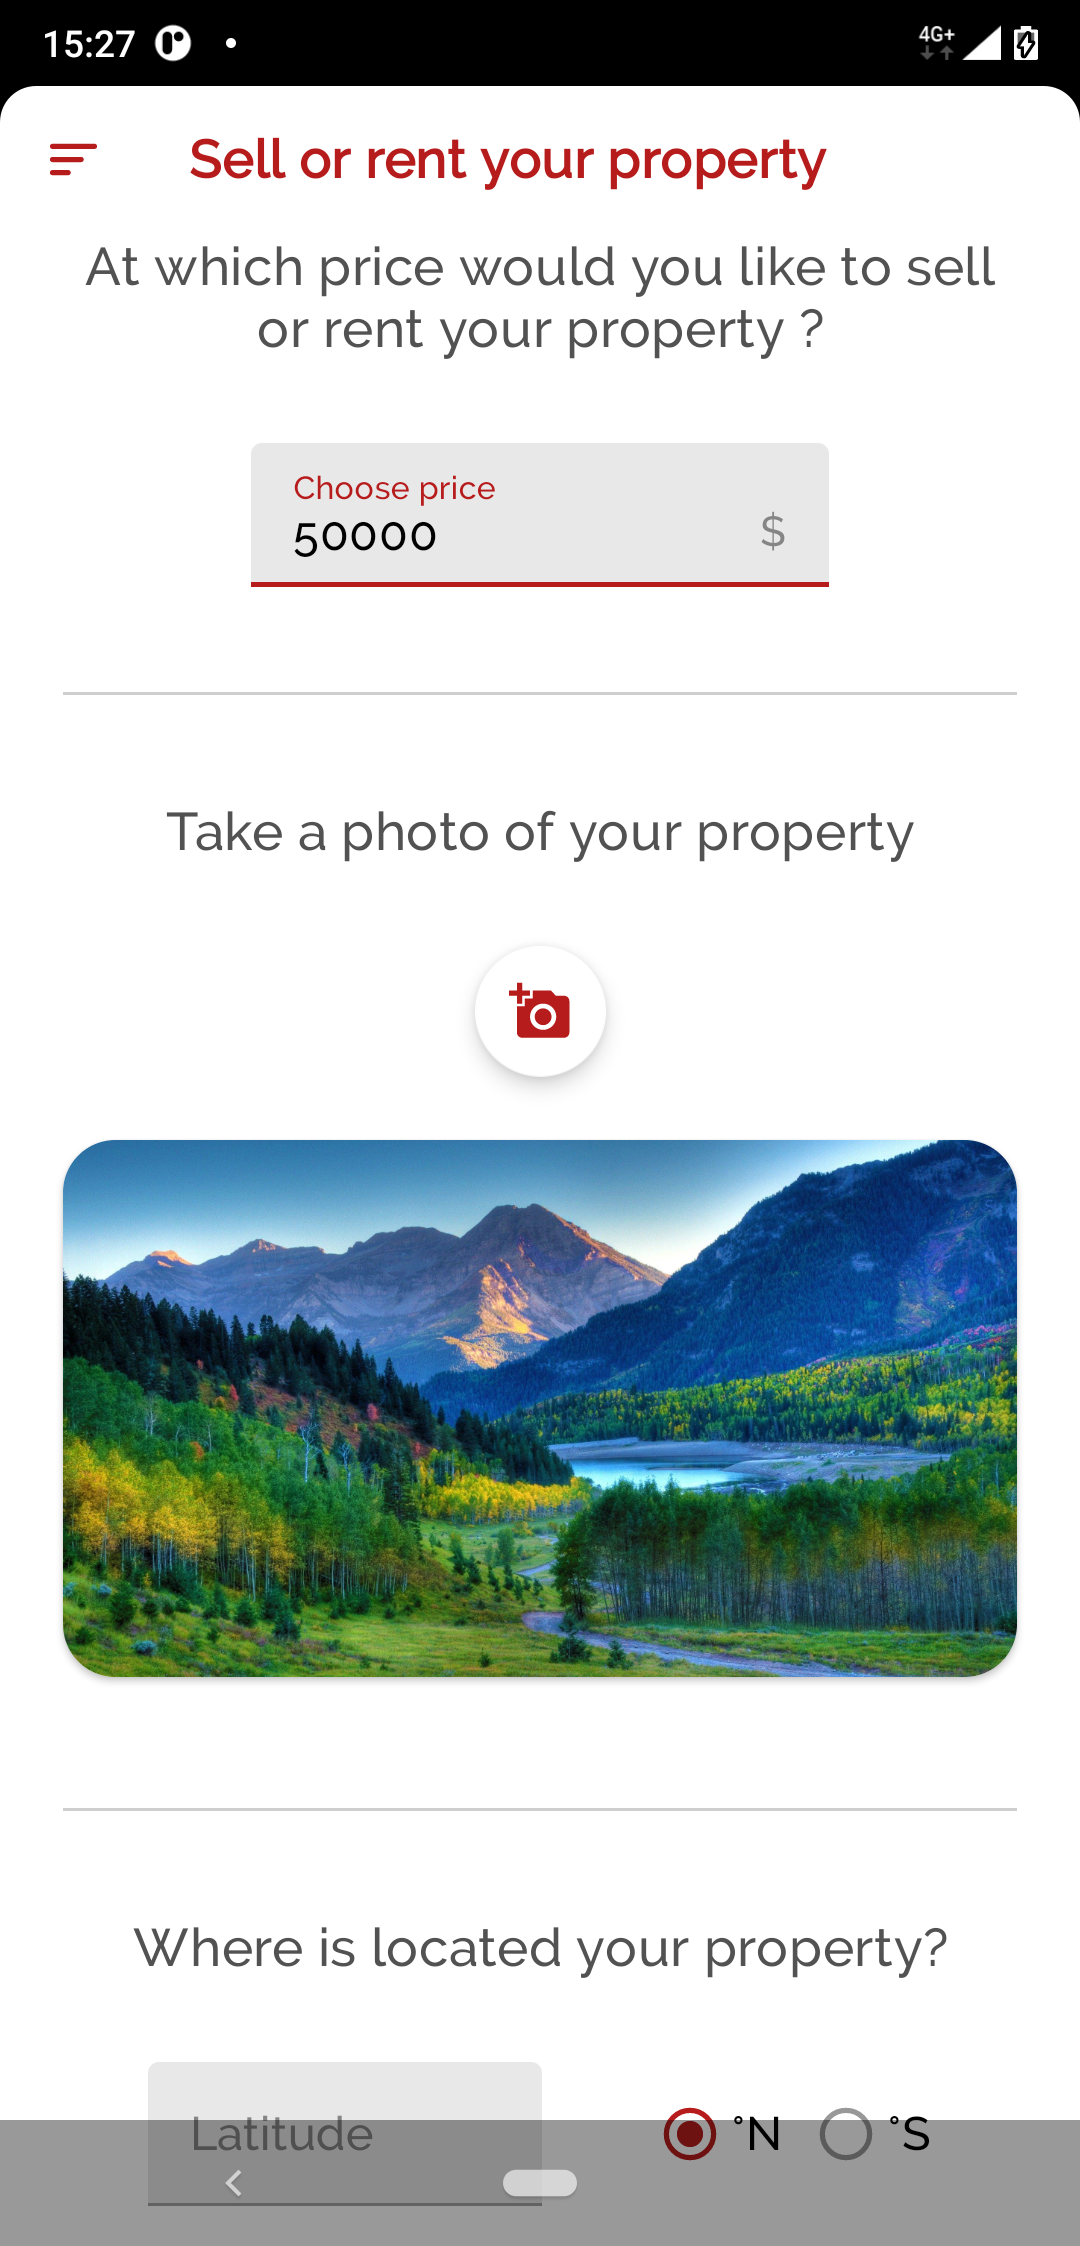
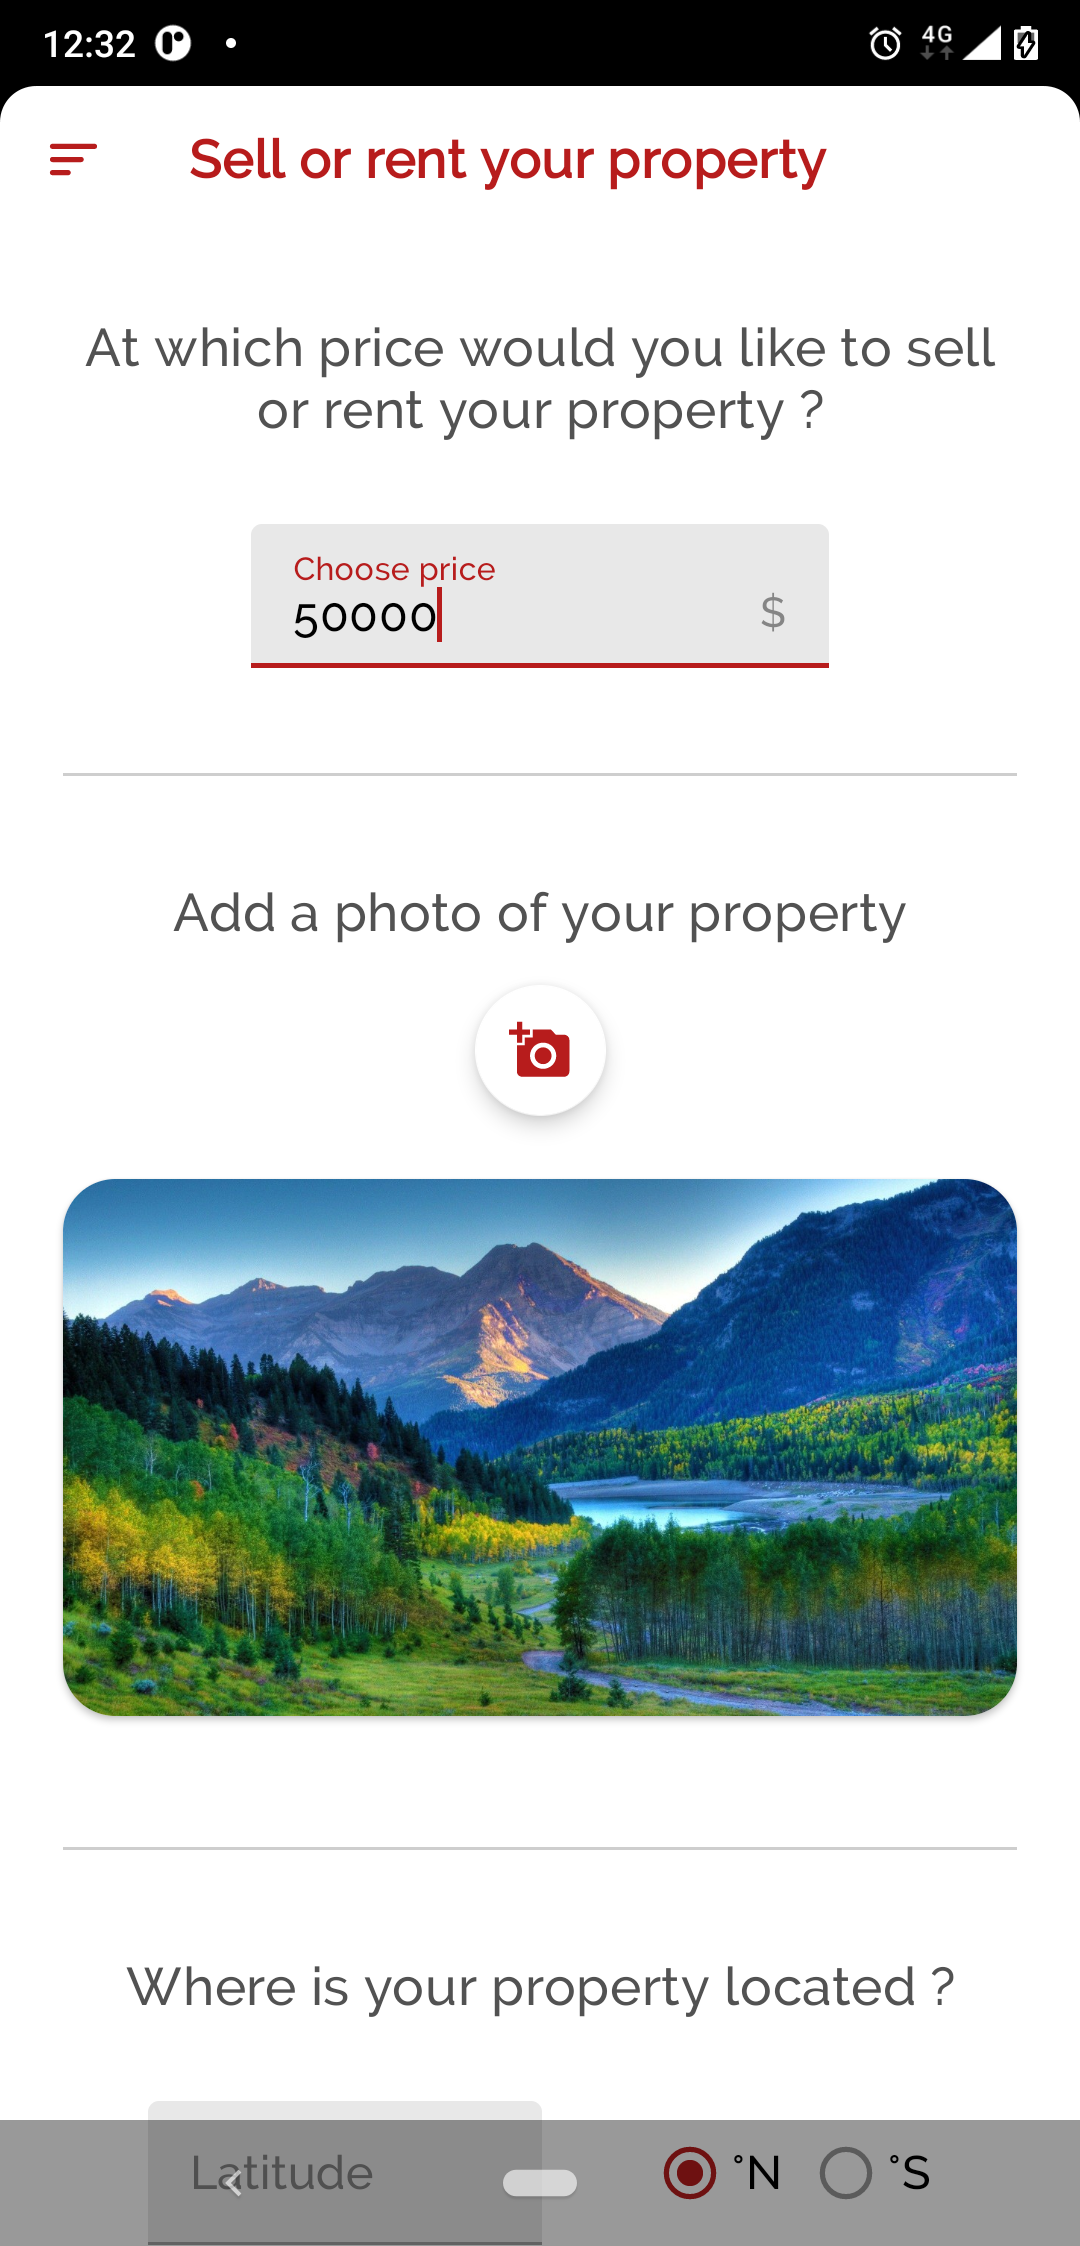
Corrected grammar mistake in Sell page screenshot
Changed image size in Readme for better visibility. Corrected grammar mistake

diff --git a/Readme.md b/Readme.md
@@ -60,16 +60,16 @@ Since the app was made a few years ago, some functions it uses are now deprecate
 
 ## Screenshots
 
-![overview](screenshots/overview.png "overview")
+<img src="screenshots/overview.png" width="300">
 
-![detail](screenshots/detail.png "detail")
+<img src="screenshots/detail.png" width="300">
 
-![drawer](screenshots/drawer.png "drawer")
+<img src="screenshots/drawer.png" width="300">
 
-![login](screenshots/login.png "login")
+<img src="screenshots/login.png" width="300">
 
-![payment](screenshots/payment.png "payment")
+<img src="screenshots/payment.png" width="300">
 
-![sell](screenshots/sell.png "sell")
+<img src="screenshots/sell.png" width="300">
 
-![overview_night](screenshots/overview_night.png "overview_night")
+<img src="screenshots/overview_night.png" width="300">
